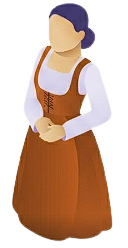
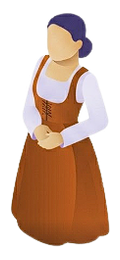
game

Changed region(s): [[0.075, 0.0, 0.925, 0.9879], [0.125, 0.6492, 0.15, 0.7056], [0.15, 0.621, 0.175, 0.6492]]

diff --git a/components/games/SproutBloom/App.tsx b/components/games/SproutBloom/App.tsx
@@ -3067,9 +3067,10 @@ export default function App({ studentData, updateStudentData, showToast }: AppPr
                 {atPond ? (() => {
                   const boatW  = ISO_TILE_W * 1.45;
                   const boatH  = ISO_TILE_W * 0.60;
-                  const playerW = ISO_TILE_W * 0.60;
-                  const overlap = playerW * 0.45;
-                  const containerH = playerW + boatH - overlap;
+                  const playerW = ISO_TILE_W * 0.45;
+                  const playerH = ISO_TILE_W * 0.95;
+                  const overlap = playerH * 0.45;
+                  const containerH = playerH + boatH - overlap;
                   const containerW = boatW;
                   const facingTransform = playerFacing === 'left' ? 'translateX(-50%) scaleX(-1)' : 'translateX(-50%)';
                   return (
@@ -3094,7 +3095,7 @@ export default function App({ studentData, updateStudentData, showToast }: AppPr
                         <img
                           src={getPlayerSrc(state.playerSprite, playerFacing)}
                           width={playerW}
-                          height={playerW}
+                          height={playerH}
                           draggable={false}
                           className="object-contain drop-shadow"
                           style={{
@@ -3125,8 +3126,8 @@ export default function App({ studentData, updateStudentData, showToast }: AppPr
                   <div ref={playerSpriteRef} className="flex flex-col items-center mb-2 relative">
                     <img
                       src={getPlayerSrc(state.playerSprite, playerFacing)}
-                      width={ISO_TILE_W * 0.9}
-                      height={ISO_TILE_W * 0.9}
+                      width={ISO_TILE_W * 0.45}
+                      height={ISO_TILE_W * 0.95}
                       draggable={false}
                       className="object-contain drop-shadow"
                       style={{